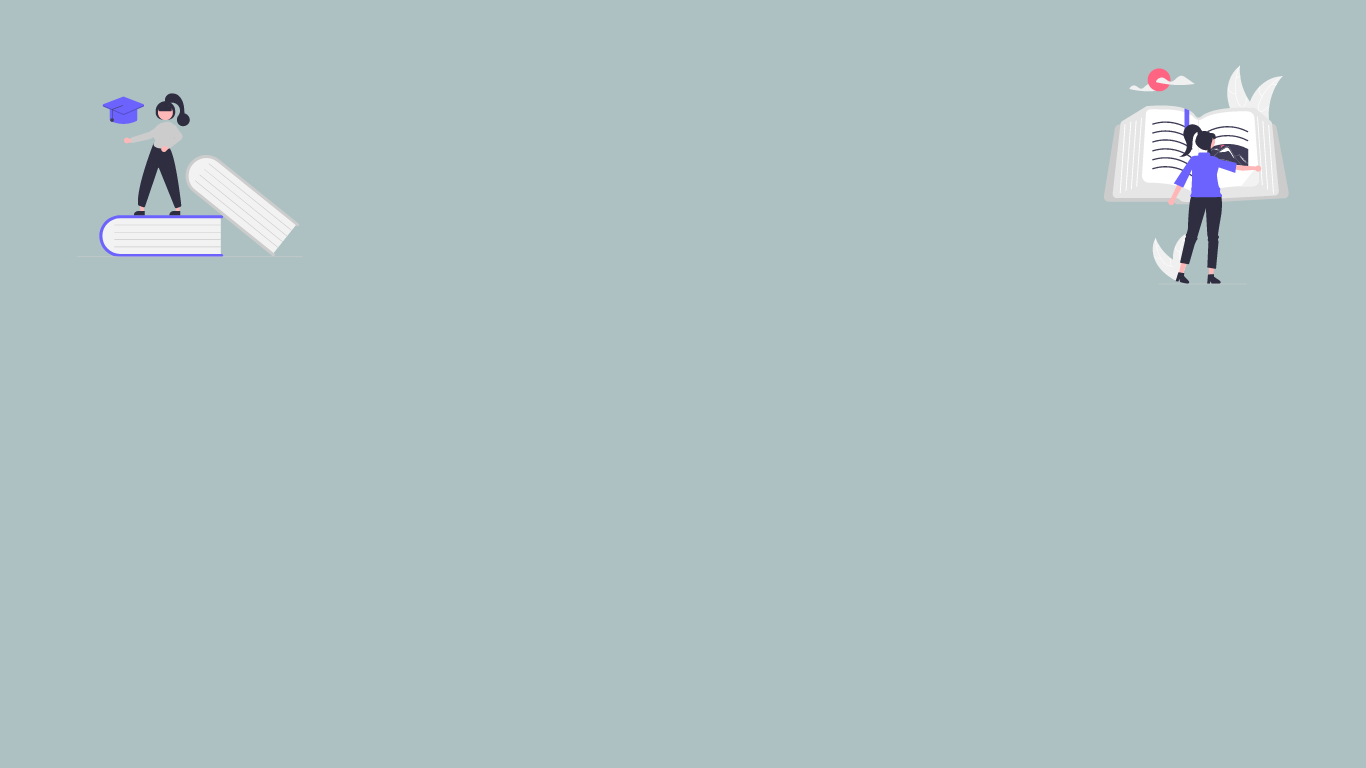
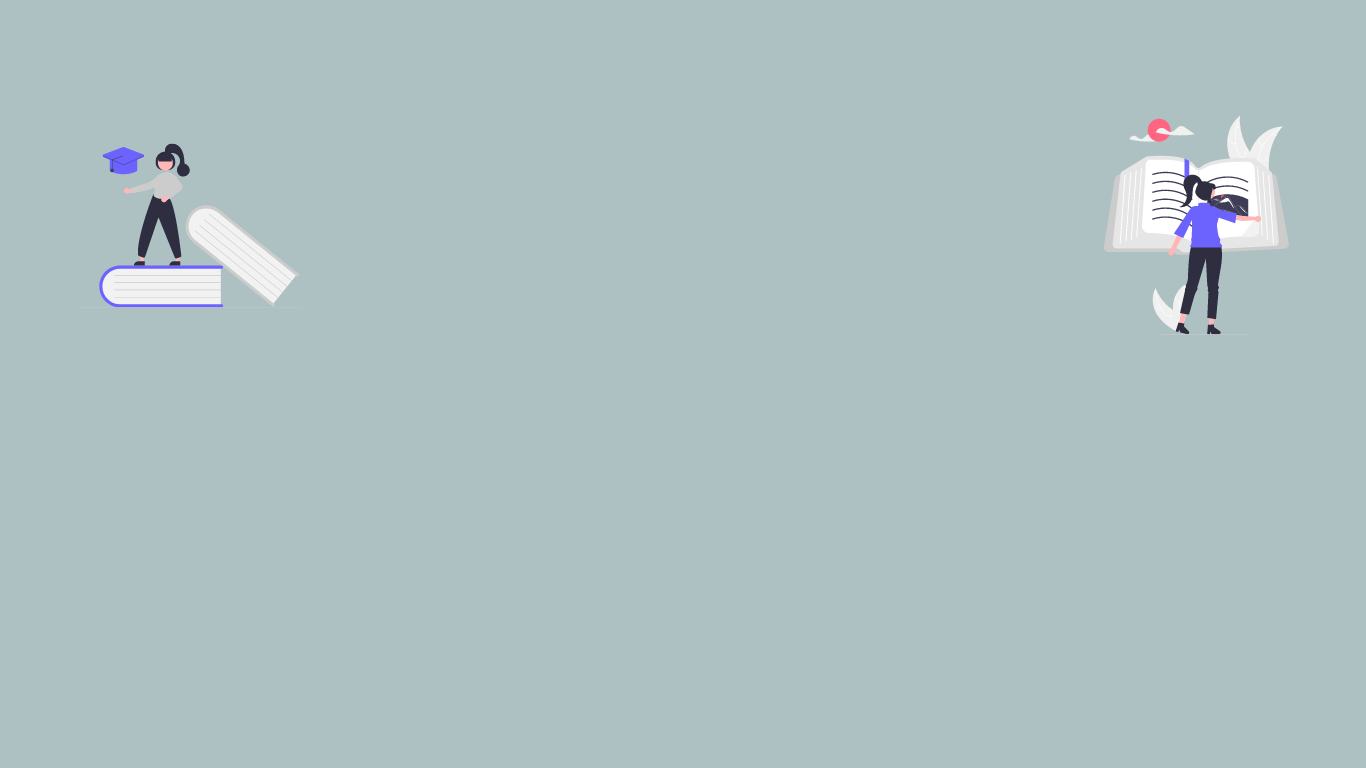
fix some UI elements

Changed region(s): [[0.7994, 0.0938, 0.9531, 0.4375], [0.0615, 0.125, 0.2152, 0.4062]]

diff --git a/src/components/Results.js b/src/components/Results.js
@@ -10,8 +10,8 @@ export default function Results({data}) {
             {data.length !== 0 ? data.map((el, i) => {
                 return (
                   <div key={i} className=" flex flex-row bg-white w-80 mx-1 my-2 rounded-lg">
-                      <img className="mr-2 max-w-24 h-32 rounded-l-lg my-auto" src={el.img ? el.img :  missingImg} alt="book cover"></img> 
-                    <div className="flex flex-col justify-between overflow-hidden">
+                      <img className="mr-2 max-w-24 h-32 aspect-square rounded-l-lg my-auto" src={el.img ? el.img :  missingImg} alt="book cover"></img> 
+                    <div className="flex flex-col justify-between overflow-hidden w-full">
                       <div>
                         <h3 className="font-bold line-clamp-2 ">{el.title}</h3>
                         {el.author[0] && <p>{el.author[0]}</p>}

diff --git a/src/components/SearchBar.js b/src/components/SearchBar.js
@@ -56,7 +56,7 @@ export default function SearchBar({data, setData}) {
             <p className="p-4">Today I feel like reading...</p>
             <form method="get">
                 <input className="rounded-md w-64" id="search" type="text" name="q" value={query} onChange={(e) => setQuery(e.target.value)} required/>
-                <input className="border bg-zinc-600 w-fit rounded-md text-white px-4 mx-2" type="submit" value="Search" onClick={handleClick}/>
+                <input className="border bg-zinc-600 w-fit rounded-md text-white px-4 my-2 mx-auto block " type="submit" value="Search" onClick={handleClick}/>
             </form>
         </div>
     )

diff --git a/src/index.css b/src/index.css
@@ -10,4 +10,22 @@ h1 {
 
 body {
     background-image: url(./img/bg.png);
+    background-position: center;
+    background-size: cover;
+    background-repeat: no-repeat;
+    background-color: #adc1c2;
+}
+
+footer {
+    text-align: end;
+}
+
+@media screen and (max-width: 980px) {
+    body {
+        background-image: url(./img/bg_sm.png);
+        background-position: center;
+        background-size: cover;
+        background-repeat: no-repeat;
+        background-color: #adc1c2;
+    }
 }

diff --git a/src/App.js b/src/App.js
@@ -18,7 +18,7 @@ function App() {
         <SearchBar data={data} setData={setData} />
         <Results data={data} />
       </div>
-      <p className=' font-thin relative bottom-0 float-right mr-4'>Made with ❤ by Alberto </p>
+      <p className='font-thin mr-4 float-right'>Made with ❤ by Alberto </p>
     </div>
     </>
   );

diff --git a/src/components/Quote.js b/src/components/Quote.js
@@ -5,7 +5,7 @@ function Quote() {
     const quote = getRandomQuote();
 
     return (
-        <p className="italic max-w-2xl h-12 mx-auto">{quote}</p>
+        <p className="italic max-w-2xl h-12 mx-auto text-xs sm:text-base">{quote}</p>
     )
 }
 

diff --git a/public/index.html b/public/index.html
@@ -26,7 +26,7 @@
     -->
     <title>The Good Reads</title>
   </head>
-  <body class="bg-slate-400">
+  <body>
     <noscript>You need to enable JavaScript to run this app.</noscript>
     <div id="root"></div>
     <!--
